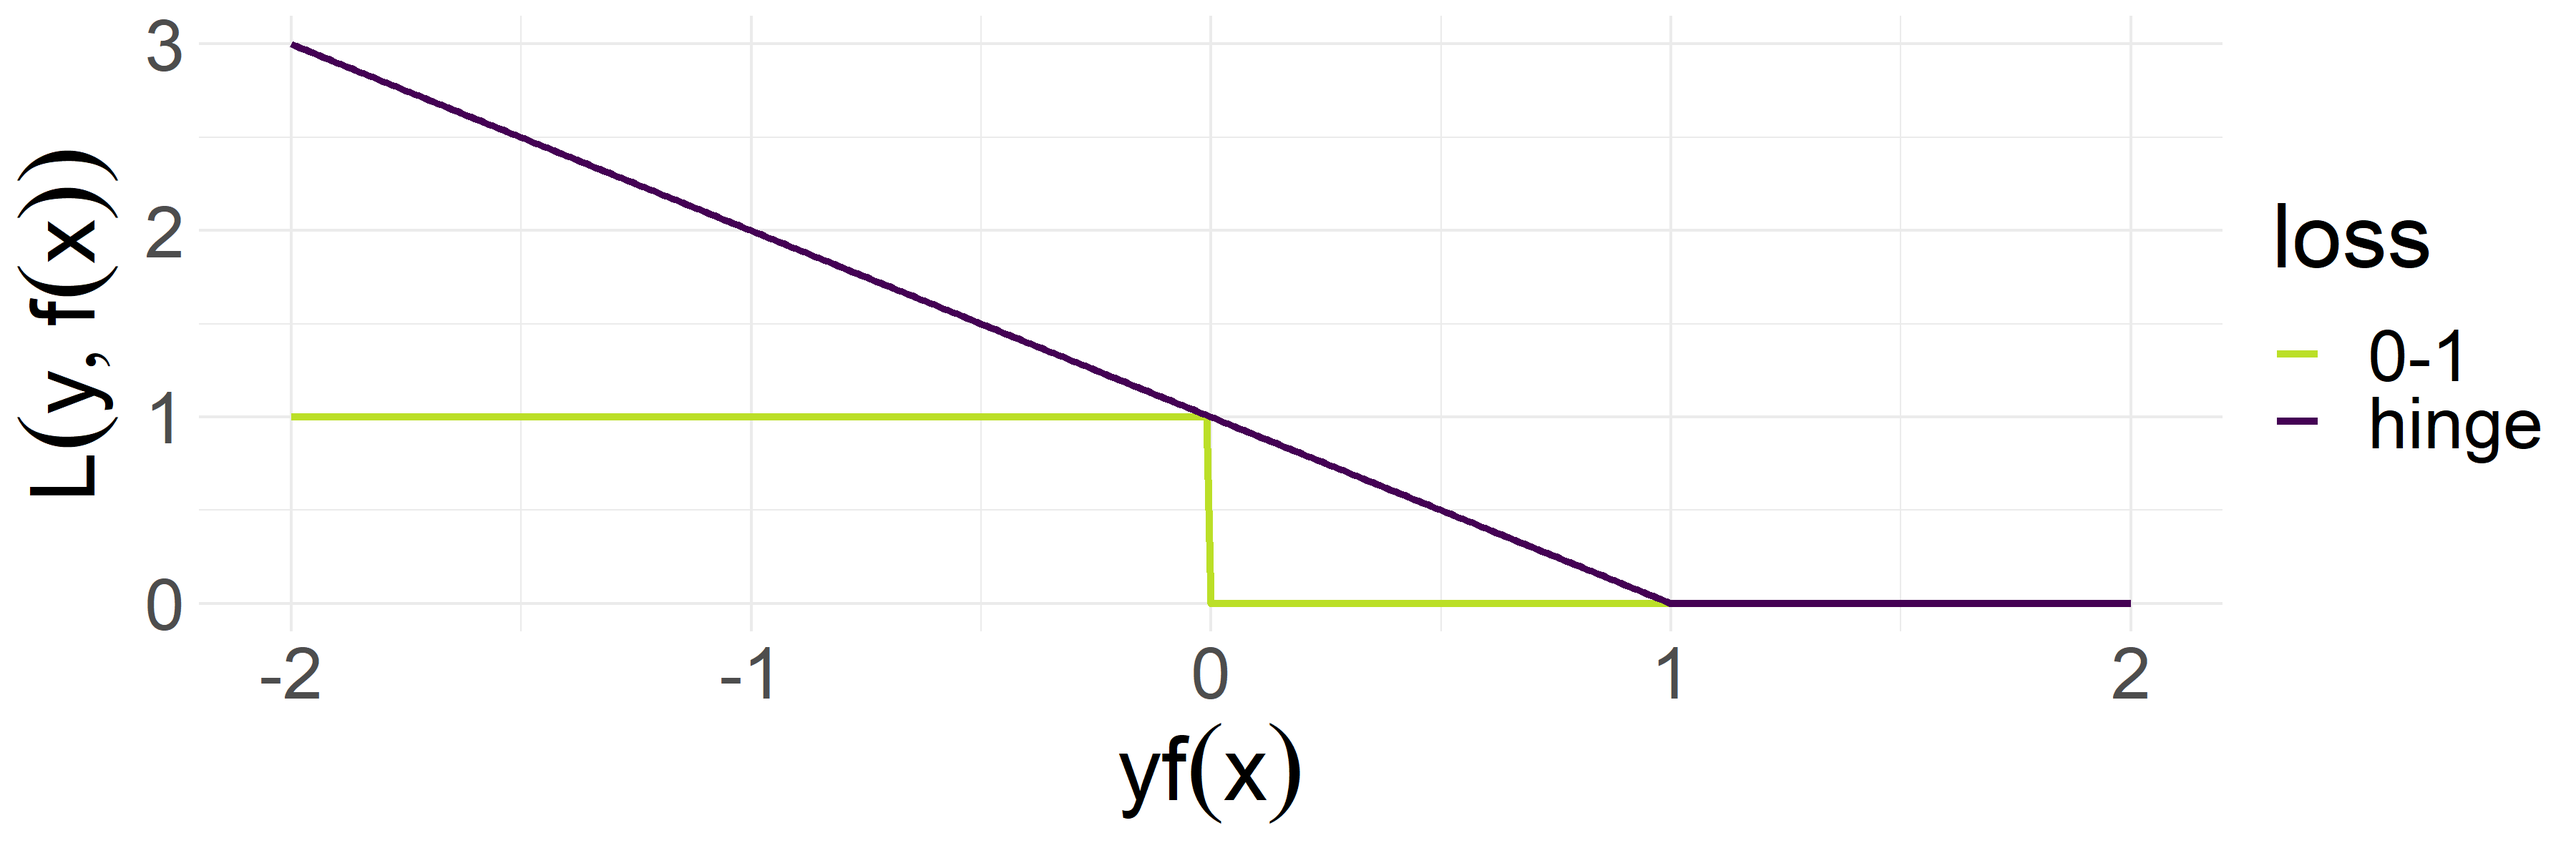
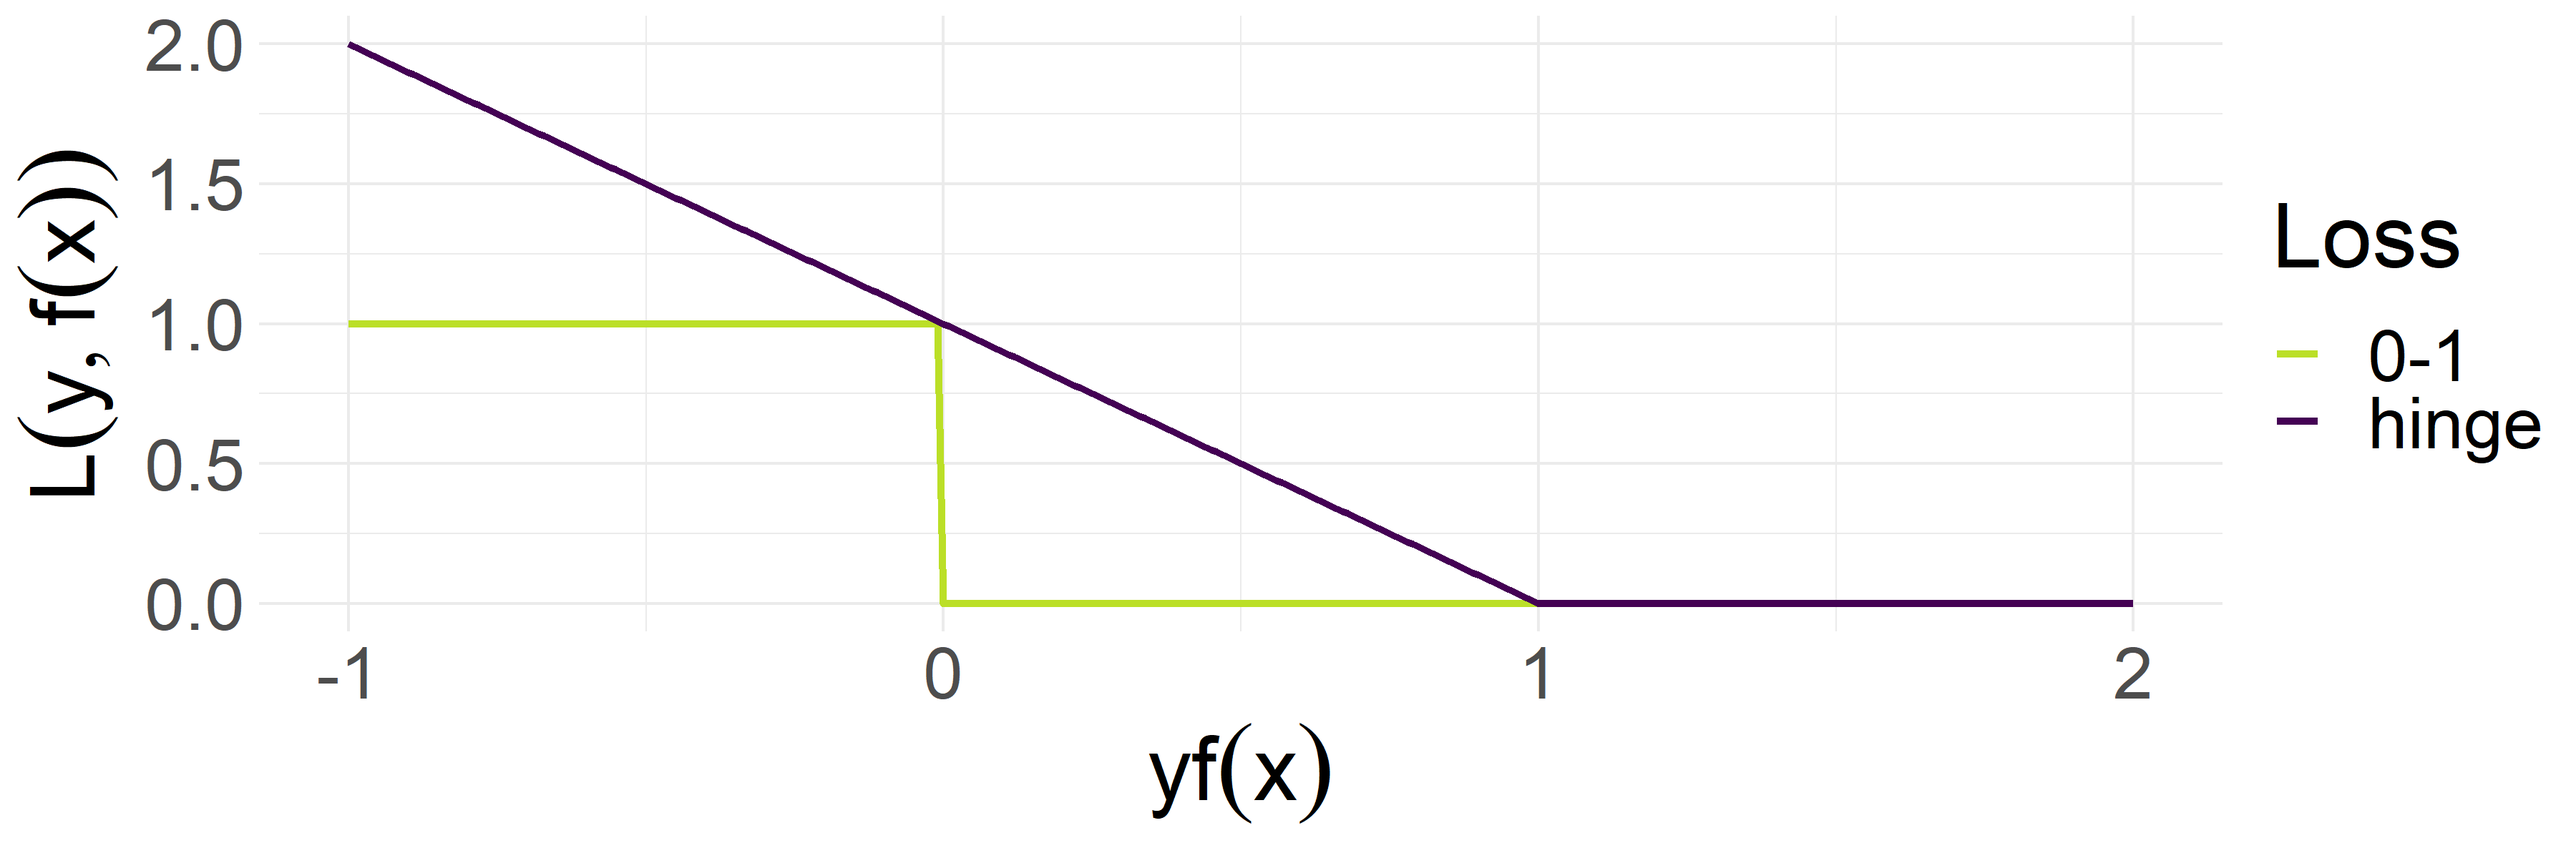
renewed exp loss fig and added sq hinge

diff --git a/slides/advriskmin/slides-advriskmin-cassification-furtherlosses.tex b/slides/advriskmin/slides-advriskmin-cassification-furtherlosses.tex
@@ -53,20 +53,39 @@
 \end{vbframe}
 
 
+\begin{vbframe}{Squared Hinge Loss}
+
+\begin{itemize}
+  \item We can also specify a \textbf{squared} version for the hinge loss:
+  $$\Lxy = \max \{ 0, (1 - y\fx)^2 \}.$$
+  \item The $L2$ punishes margins $y \fx \in (0, 1)$ less severely but puts 
+  a high penalty on more confidently wrong predictions. 
+  \item Therefore, it is smoother yet more outlier-sensitive than the 
+  non-squared form.
+\end{itemize}
+
+\begin{center}
+\includegraphics[width = 0.7\textwidth]{figure/plot_loss_hinge_squared.png}
+\end{center}
+
+\end{vbframe}
+
+
 
 \begin{vbframe}{Classification Losses: Exponential Loss}
 
-Another possible choice for a (binary) loss function that is a smooth approximation to the 0-1-loss:
+Another possible choice for a (binary) loss function that is a smooth 
+approximation to the 0-1-loss is the \textbf{exponential loss}:
 \begin{itemize}
-\item $\Lxy = \exp(-y\fx)$, used in AdaBoost
-\item Convex, differentiable (thus easier to optimize than 0-1-loss)
-\item The loss increases exponentially for wrong predictions with high confidence; if the prediction is right with a small confidence only, there, loss is still positive
-\item No closed-form analytic solution to (empirical) risk minimization
+\item $\Lxy = \exp(-y\fx)$, used in AdaBoost.
+\item Convex, differentiable (thus easier to optimize than 0-1-loss).
+\item The loss increases exponentially for wrong predictions with high confidence; if the prediction is right with a small confidence only, there, loss is still positive.
+\item No closed-form analytic solution to (empirical) risk minimization.
 \end{itemize}
 
 
 \begin{figure}
-\includegraphics[width = 0.8\textwidth]{figure_man/exponential-loss.png}
+\includegraphics[width = 0.8\textwidth]{figure/plot_loss_exponential.png}
 \end{figure}
 
 \end{vbframe}
